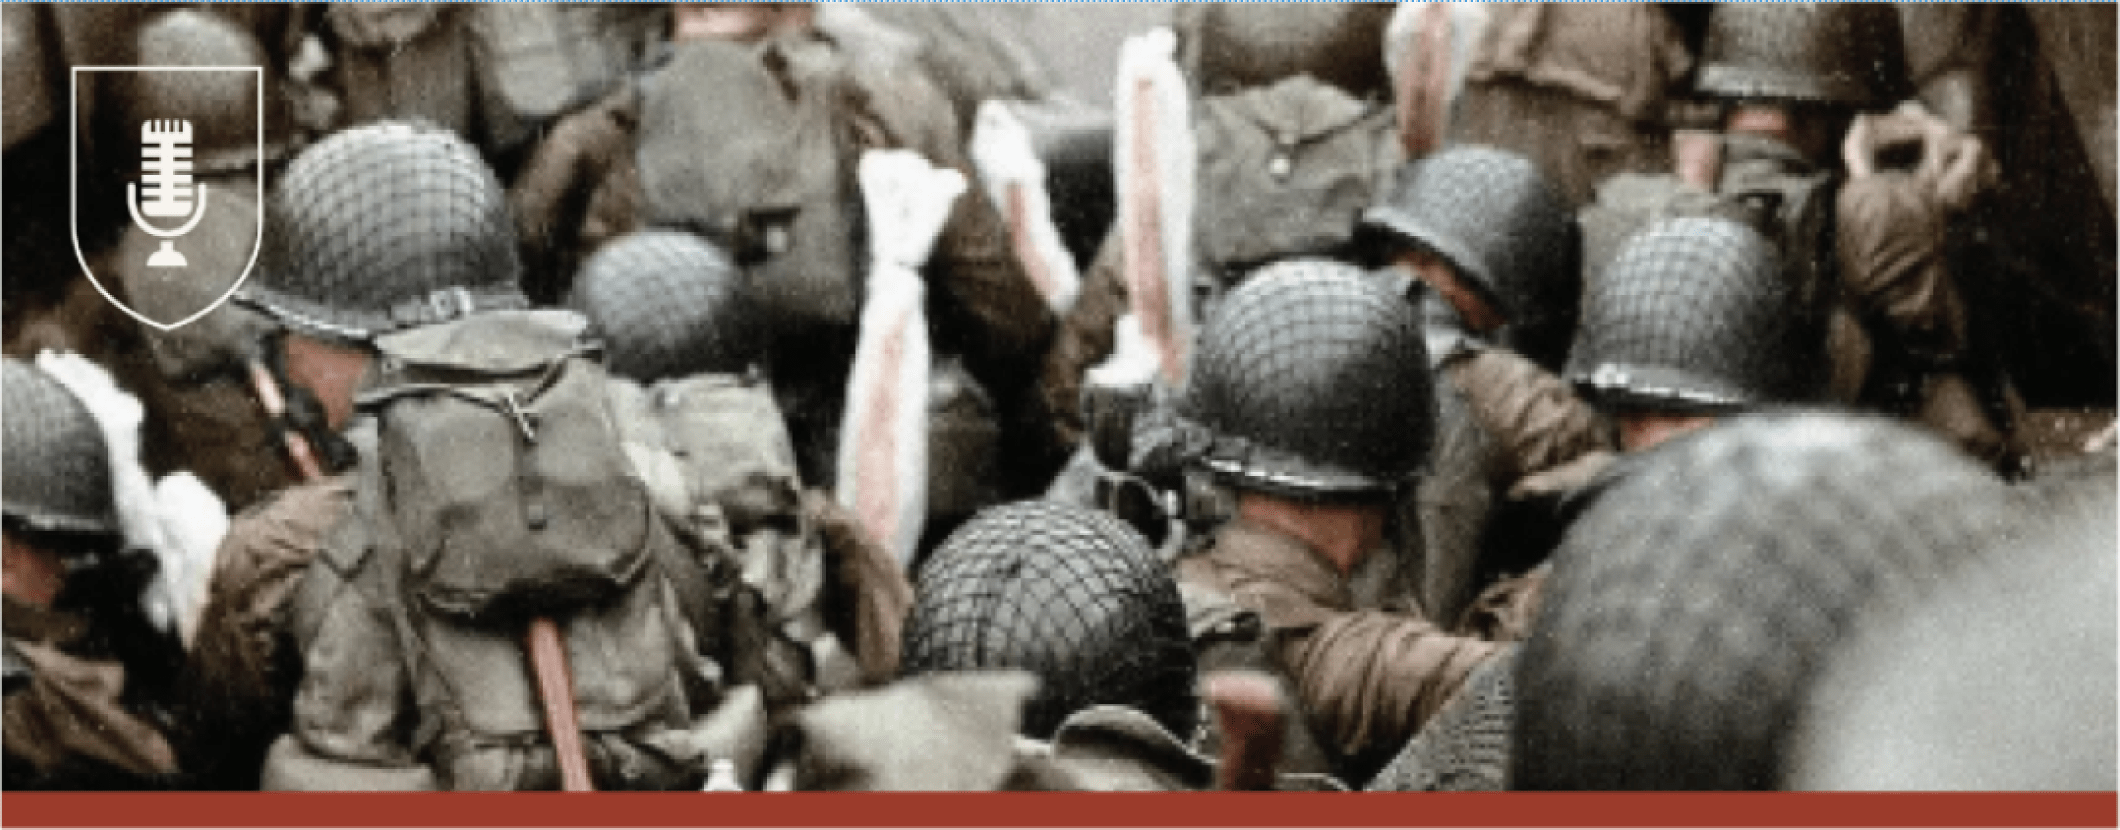
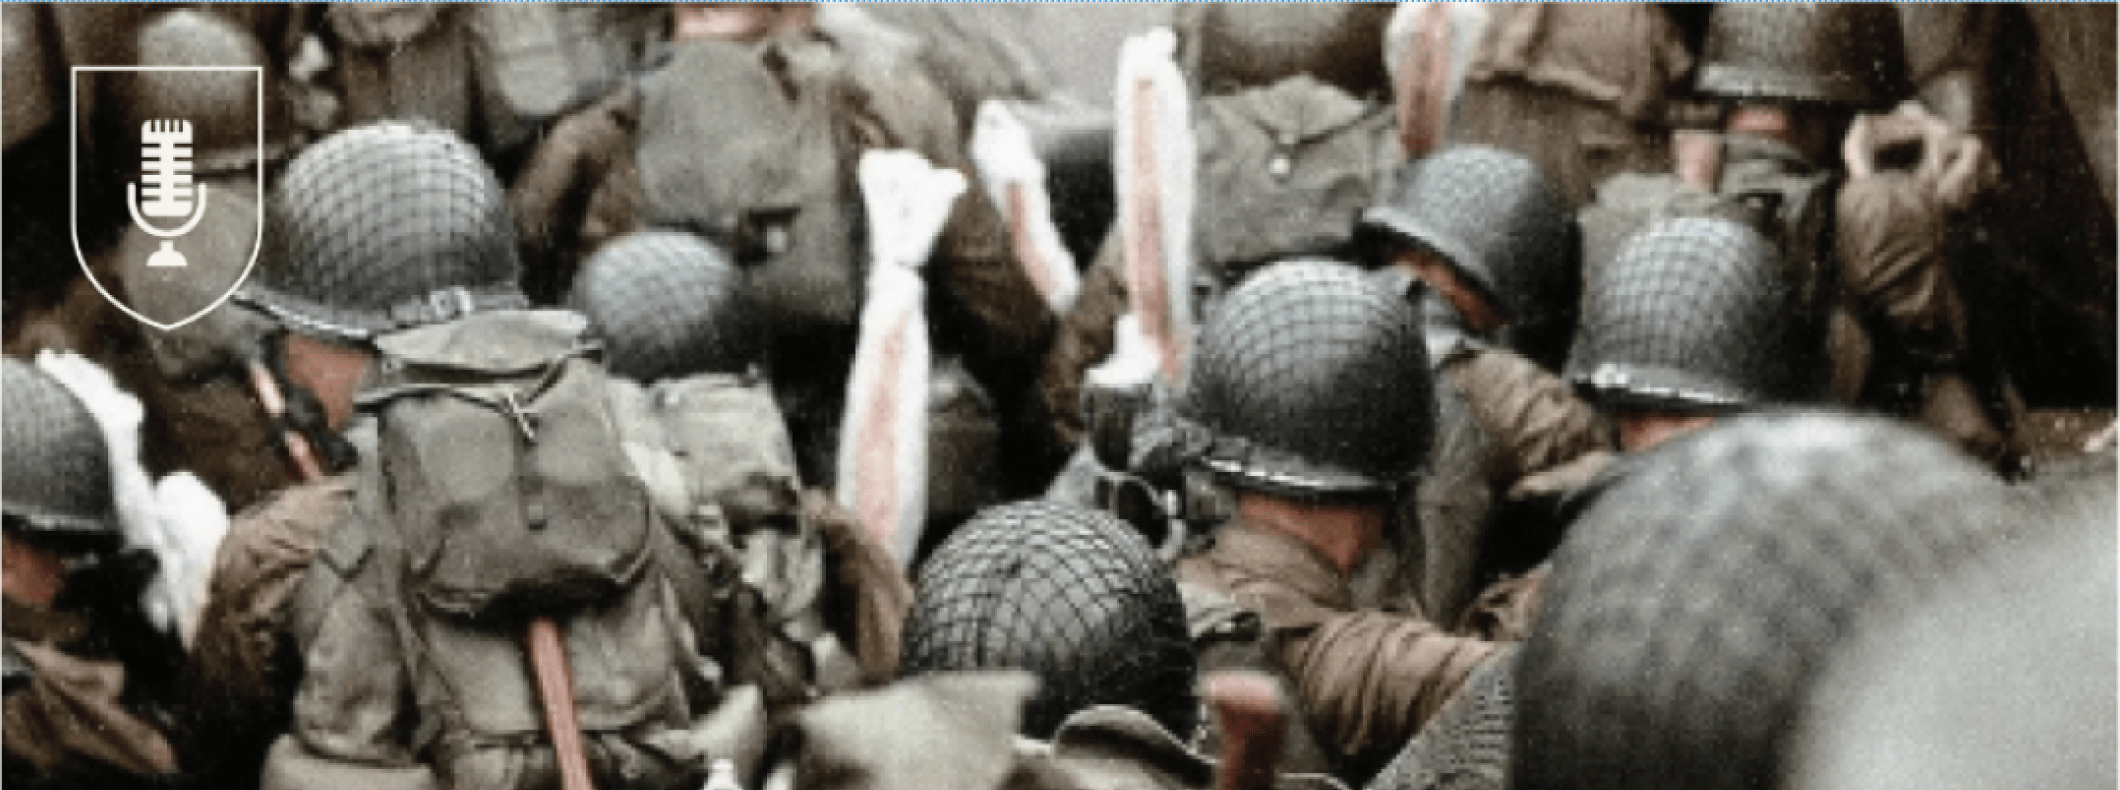
#

diff --git a/assets/js/app.js b/assets/js/app.js
@@ -190,7 +190,7 @@ $('.result .head .tags .tag .close_btn').click(function () {
 				settings.file = ($this).data('file');
 			}
 
-			var audioPlayerMarkup = '<div class="play_btn">                                        <div id="start" data-play="" class="control-icon icon_start">                                            <svg width="38" height="39" viewBox="0 0 38 39" fill="none" xmlns="http://www.w3.org/2000/svg">                                                <path d="M38 19.75C38 30.2891 29.4648 38.75 19 38.75C8.46094 38.75 0 30.2891 0 19.75C0 9.28516 8.46094 0.75 19 0.75C29.4648 0.75 38 9.28516 38 19.75ZM13.0625 13.2188V26.2812C13.0625 26.9492 13.3594 27.543 13.9531 27.8398C14.4727 28.2109 15.2148 28.1367 15.7344 27.8398L26.4219 21.3086C26.9414 21.0117 27.3125 20.418 27.3125 19.75C27.3125 19.1562 26.9414 18.5625 26.4219 18.2656L15.7344 11.7344C15.2148 11.3633 14.4727 11.3633 13.9531 11.7344C13.3594 12.0312 13.0625 12.625 13.0625 13.2188Z" fill="currentColor"></path>                                            </svg>                                        </div>                                        <div data-pause="" class="icon_stop control-icon pause" id="pause">                                            <svg width="38" height="39" viewBox="0 0 38 39" fill="none" xmlns="http://www.w3.org/2000/svg">                                                <path d="M38 19.75C38 30.2891 29.4648 38.75 19 38.75C8.46094 38.75 0 30.2891 0 19.75C0 9.28516 8.46094 0.75 19 0.75C29.4648 0.75 38 9.28516 38 19.75ZM13.0625 13.2188V26.2812C13.0625 26.9492 13.3594 27.543 13.9531 27.8398C14.4727 28.2109 15.2148 28.1367 15.7344 27.8398L26.4219 21.3086C26.9414 21.0117 27.3125 20.418 27.3125 19.75C27.3125 19.1562 26.9414 18.5625 26.4219 18.2656L15.7344 11.7344C15.2148 11.3633 14.4727 11.3633 13.9531 11.7344C13.3594 12.0312 13.0625 12.625 13.0625 13.2188Z" fill="currentColor"></path>                                                <rect x="5" y="5" width="29" height="29" rx="14.5" fill="currentColor"></rect>                                                <rect x="12.25" y="9.53125" width="4.53125" height="19.9375" rx="1" fill="white"></rect>                                                <rect x="21.3125" y="9.53125" width="4.53125" height="19.9375" rx="1" fill="white"></rect>                                            </svg>                                        </div>                                    </div></svg></span> <span data-elapsed class="audio-time">00:00</span><div class="indicator-container"><div class="indicator-bar-empty"><div class="indicator-bar-full"></div></div><div data-playhead class="playhead"></div></div><span data-duration class="audio-time">0:00</span>';
+			var audioPlayerMarkup = '<div class="play_btn">                                        <div id="start" data-play="" class="control-icon icon_start">                                            <svg width="38" height="39" viewBox="0 0 38 39" fill="none" xmlns="http://www.w3.org/2000/svg">                                                <path d="M38 19.75C38 30.2891 29.4648 38.75 19 38.75C8.46094 38.75 0 30.2891 0 19.75C0 9.28516 8.46094 0.75 19 0.75C29.4648 0.75 38 9.28516 38 19.75ZM13.0625 13.2188V26.2812C13.0625 26.9492 13.3594 27.543 13.9531 27.8398C14.4727 28.2109 15.2148 28.1367 15.7344 27.8398L26.4219 21.3086C26.9414 21.0117 27.3125 20.418 27.3125 19.75C27.3125 19.1562 26.9414 18.5625 26.4219 18.2656L15.7344 11.7344C15.2148 11.3633 14.4727 11.3633 13.9531 11.7344C13.3594 12.0312 13.0625 12.625 13.0625 13.2188Z" fill="currentColor"></path>                                            </svg>                                        </div>                                        <div data-pause="" class="icon_stop control-icon pause" id="pause">                                            <svg width="38" height="39" viewBox="0 0 38 39" fill="none" xmlns="http://www.w3.org/2000/svg">                                                <path d="M38 19.75C38 30.2891 29.4648 38.75 19 38.75C8.46094 38.75 0 30.2891 0 19.75C0 9.28516 8.46094 0.75 19 0.75C29.4648 0.75 38 9.28516 38 19.75ZM13.0625 13.2188V26.2812C13.0625 26.9492 13.3594 27.543 13.9531 27.8398C14.4727 28.2109 15.2148 28.1367 15.7344 27.8398L26.4219 21.3086C26.9414 21.0117 27.3125 20.418 27.3125 19.75C27.3125 19.1562 26.9414 18.5625 26.4219 18.2656L15.7344 11.7344C15.2148 11.3633 14.4727 11.3633 13.9531 11.7344C13.3594 12.0312 13.0625 12.625 13.0625 13.2188Z" fill="currentColor"></path>                                                <rect x="5" y="5" width="29" height="29" rx="14.5" fill="currentColor"></rect>                                                <rect x="12.25" y="9.53125" width="4.53125" height="19.9375" rx="1" fill="white"></rect>                                                <rect x="21.3125" y="9.53125" width="4.53125" height="19.9375" rx="1" fill="white"></rect>                                            </svg>                                        </div>                                    </div></svg></span> <span data-elapsed class="audio-time">00:00</span><div class="indicator-container"><div class="indicator-bar-empty"><div class="indicator-bar-full"></div></div><div data-playhead class="playhead"></div></div><span data-duration class="audio-time">0:00</span>     <button type="button" class="reset_btn">        <svg width="23" height="23" viewBox="0 0 23 23" fill="none" xmlns="http://www.w3.org/2000/svg">            <path                d="M1.875 0.75C2.48438 0.75 3 1.26562 3 1.875V6.70312C4.82812 3.5625 8.25 1.54688 12 1.54688C17.7656 1.54688 22.5 6.23438 22.5 12C22.5 17.8125 17.7656 22.5 12 22.5C9.51562 22.5 7.125 21.6562 5.25 20.1094C4.78125 19.6875 4.73438 18.9844 5.10938 18.5156C5.53125 18.0469 6.23438 17.9531 6.70312 18.375C8.15625 19.5938 10.0312 20.25 12 20.25C16.5469 20.25 20.25 16.5938 20.25 12C20.25 7.45312 16.5469 3.75 12 3.75C8.85938 3.75 6.04688 5.57812 4.64062 8.25H9.375C9.98438 8.25 10.5 8.76562 10.5 9.375C10.5 10.0312 9.98438 10.5 9.375 10.5H1.875C1.21875 10.5 0.75 10.0312 0.75 9.375V1.875C0.75 1.26562 1.21875 0.75 1.875 0.75Z"                fill="#022A42" />        </svg>    </button>';
 			$this.prepend(audioPlayerMarkup);
 			$this.prepend('<audio></audio>');
 			var audioFile = $this.children('audio').get(0);
@@ -293,9 +293,6 @@ $('.result .head .tags .tag .close_btn').click(function () {
 
 
 $('.audio-player').audioPlayer();
-
-
-
 
 $('.audio_box .play_btn').click(function () {
 	$(this).toggleClass('active');

diff --git a/index.html b/index.html
@@ -284,11 +284,11 @@
                                 <h4>Wednesday, July 5, 2023</h4>
                             </div>
                         </div>
-                         <div class="audio_box">
-                                    <div class="audio-player"
-                                        data-file="https://s3-us-west-2.amazonaws.com/s.cdpn.io/355309/Swing_Jazz_Drum.mp3">
-                                    </div>
-                                </div>
+                        <div class="audio_box">
+                            <div class="audio-player"
+                                data-file="https://s3-us-west-2.amazonaws.com/s.cdpn.io/355309/Swing_Jazz_Drum.mp3">
+                            </div>
+                        </div>
                     </div>
                     <div class="right">
                         <ul class="blog_items">
@@ -446,11 +446,11 @@
                                 <h4>Wednesday, July 5, 2023</h4>
                             </div>
                         </div>
-                         <div class="audio_box">
-                                    <div class="audio-player"
-                                        data-file="https://s3-us-west-2.amazonaws.com/s.cdpn.io/355309/Swing_Jazz_Drum.mp3">
-                                    </div>
-                                </div>
+                        <div class="audio_box">
+                            <div class="audio-player"
+                                data-file="https://s3-us-west-2.amazonaws.com/s.cdpn.io/355309/Swing_Jazz_Drum.mp3">
+                            </div>
+                        </div>
                     </div>
                     <div class="right">
                         <ul class="blog_items">
@@ -516,11 +516,11 @@
                                 <h4>Wednesday, July 5, 2023</h4>
                             </div>
                         </div>
-                         <div class="audio_box">
-                                    <div class="audio-player"
-                                        data-file="https://s3-us-west-2.amazonaws.com/s.cdpn.io/355309/Swing_Jazz_Drum.mp3">
-                                    </div>
-                                </div>
+                        <div class="audio_box">
+                            <div class="audio-player"
+                                data-file="https://s3-us-west-2.amazonaws.com/s.cdpn.io/355309/Swing_Jazz_Drum.mp3">
+                            </div>
+                        </div>
                     </div>
                     <div class="col">
                         <div class="sec_title">

diff --git a/assets/scss/elements/_hero.scss b/assets/scss/elements/_hero.scss
@@ -1,4 +1,3 @@
-@use "sass:map";
 
 .hero {
     .left {
@@ -13,6 +12,13 @@
             background-color: var(--olive-green);
             display: block;
             margin: 0 60px;
+        }
+        .article_item {
+            .image {
+                img {
+                    border-bottom: 20px solid #9B3B2B;
+                }
+            }
         }
     }
 

diff --git a/assets/scss/main.css b/assets/scss/main.css
@@ -1507,6 +1507,9 @@ button.swiper-pagination-bullet {
   display: block;
   margin: 0 60px;
 }
+.hero .left .article_item .image img {
+  border-bottom: 20px solid #9B3B2B;
+}
 .hero .right {
   width: 35%;
 }
